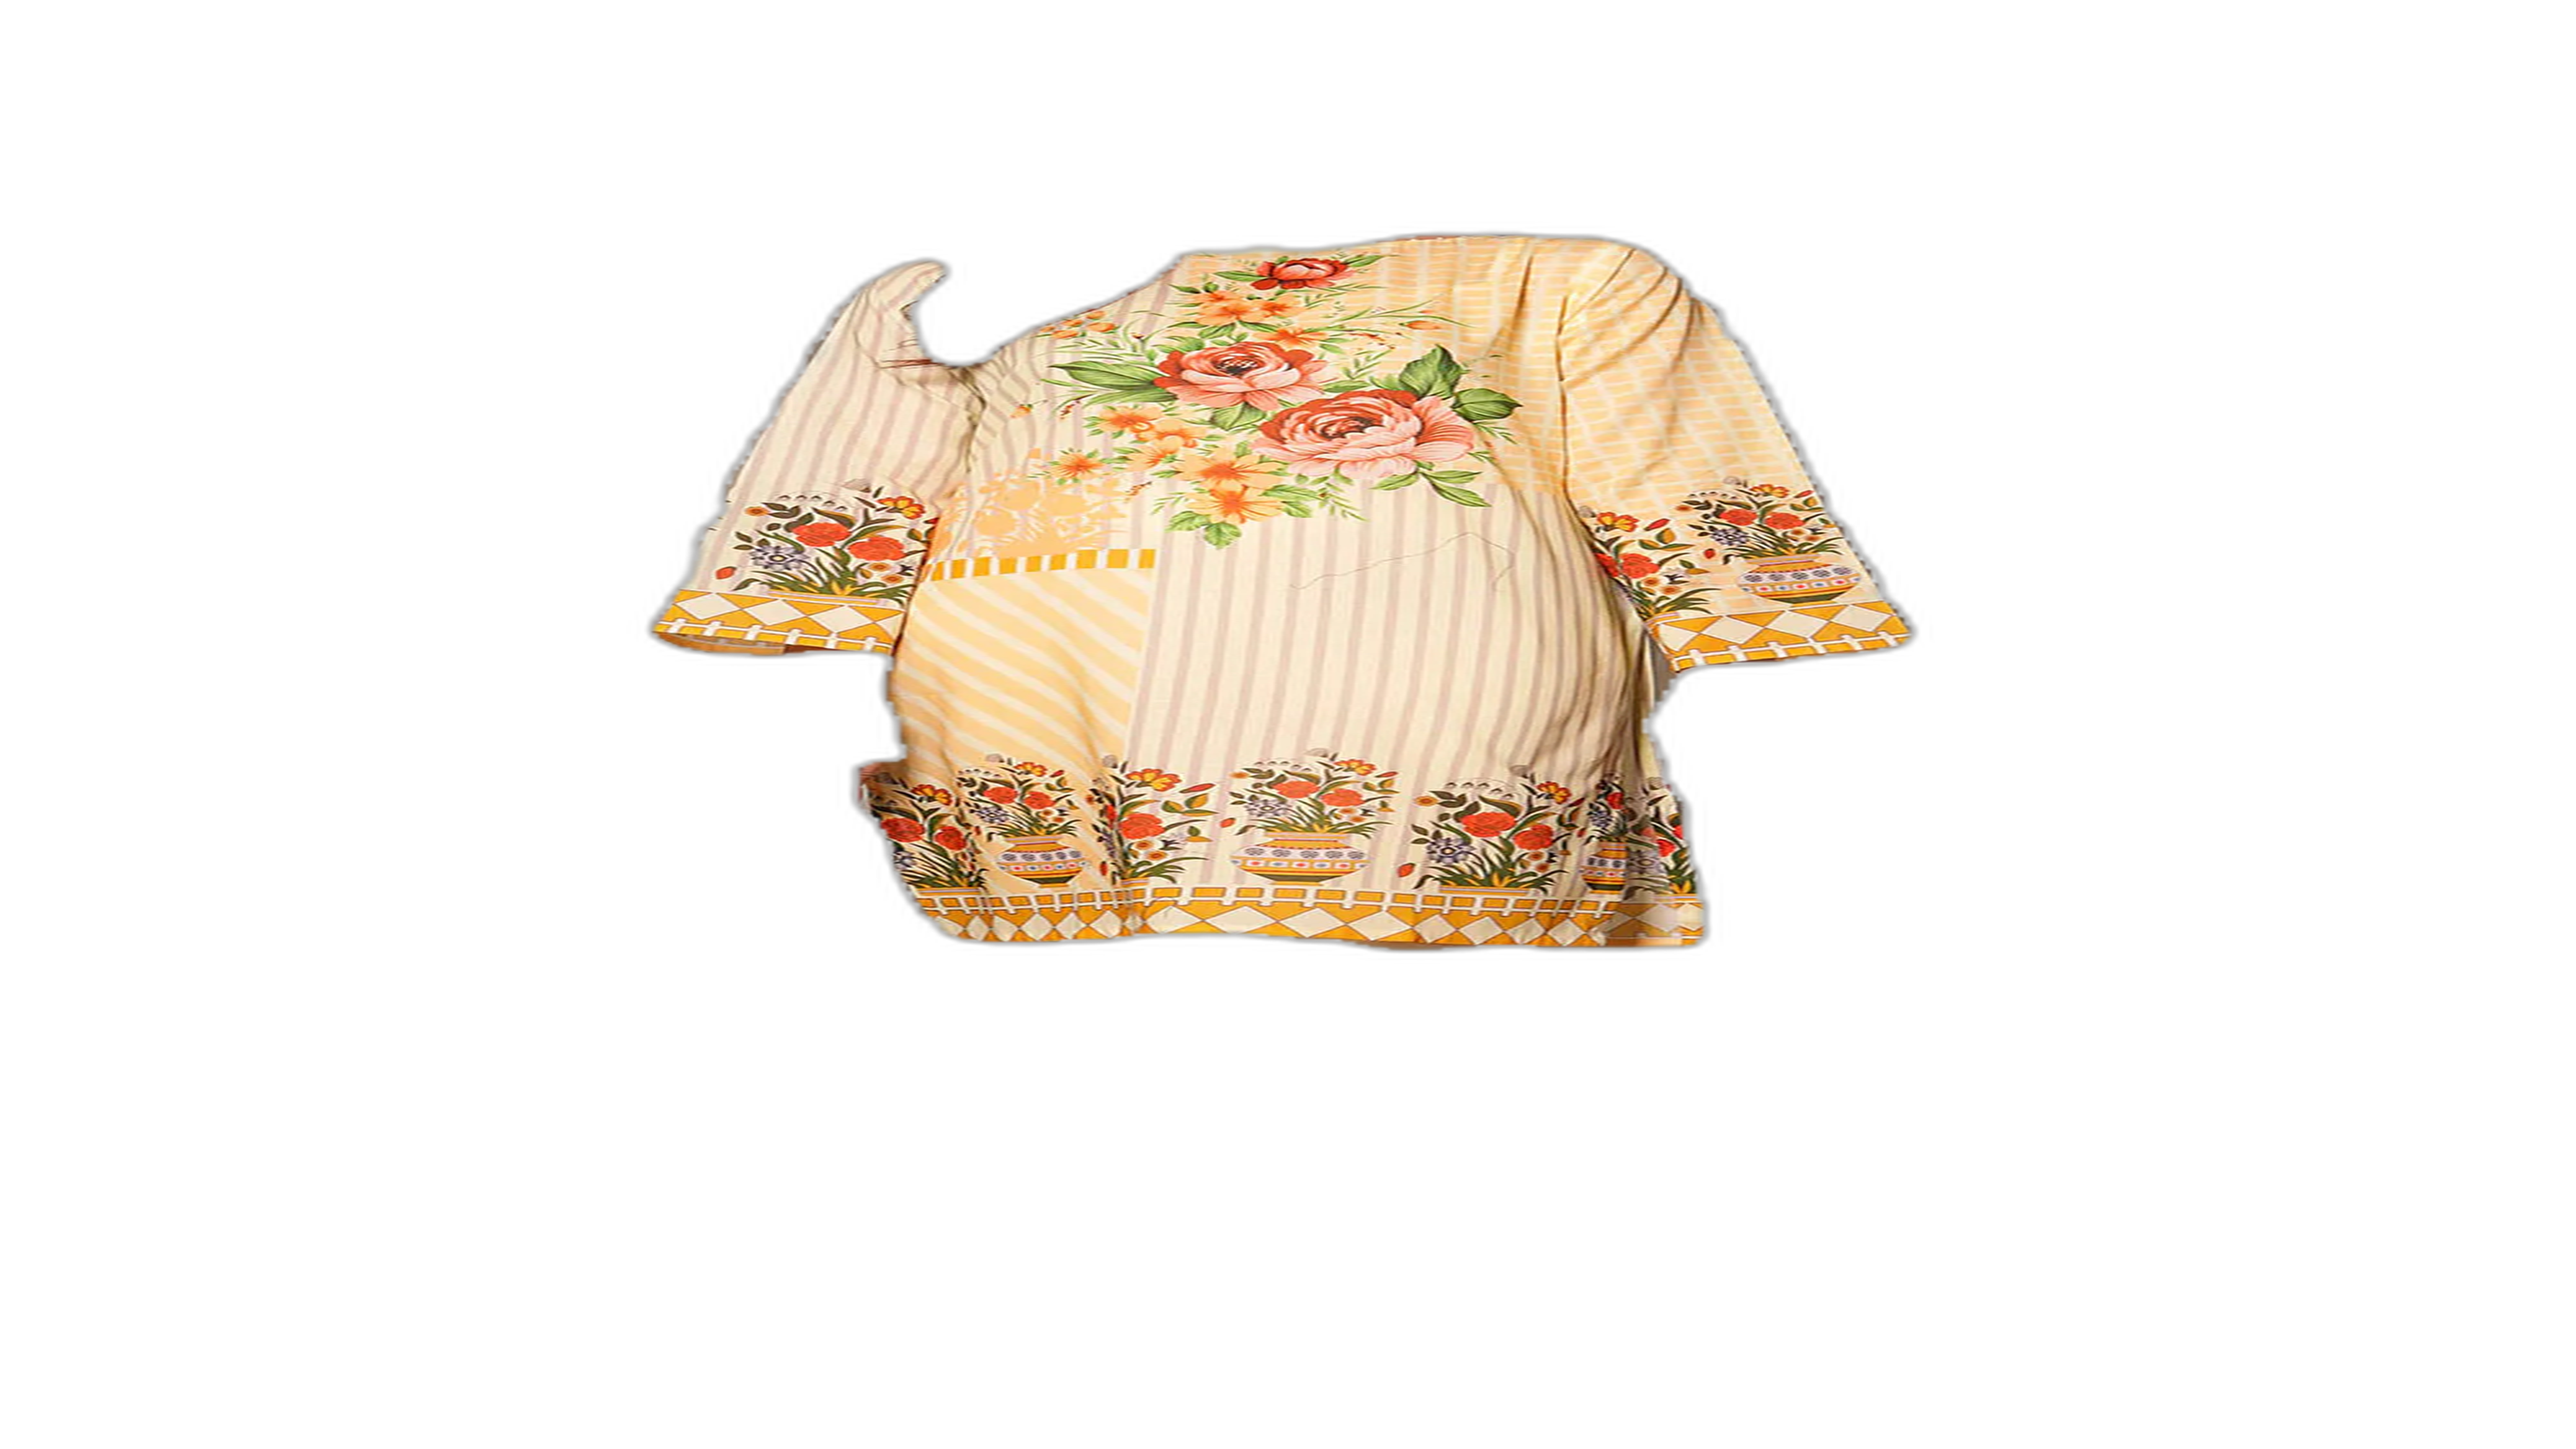
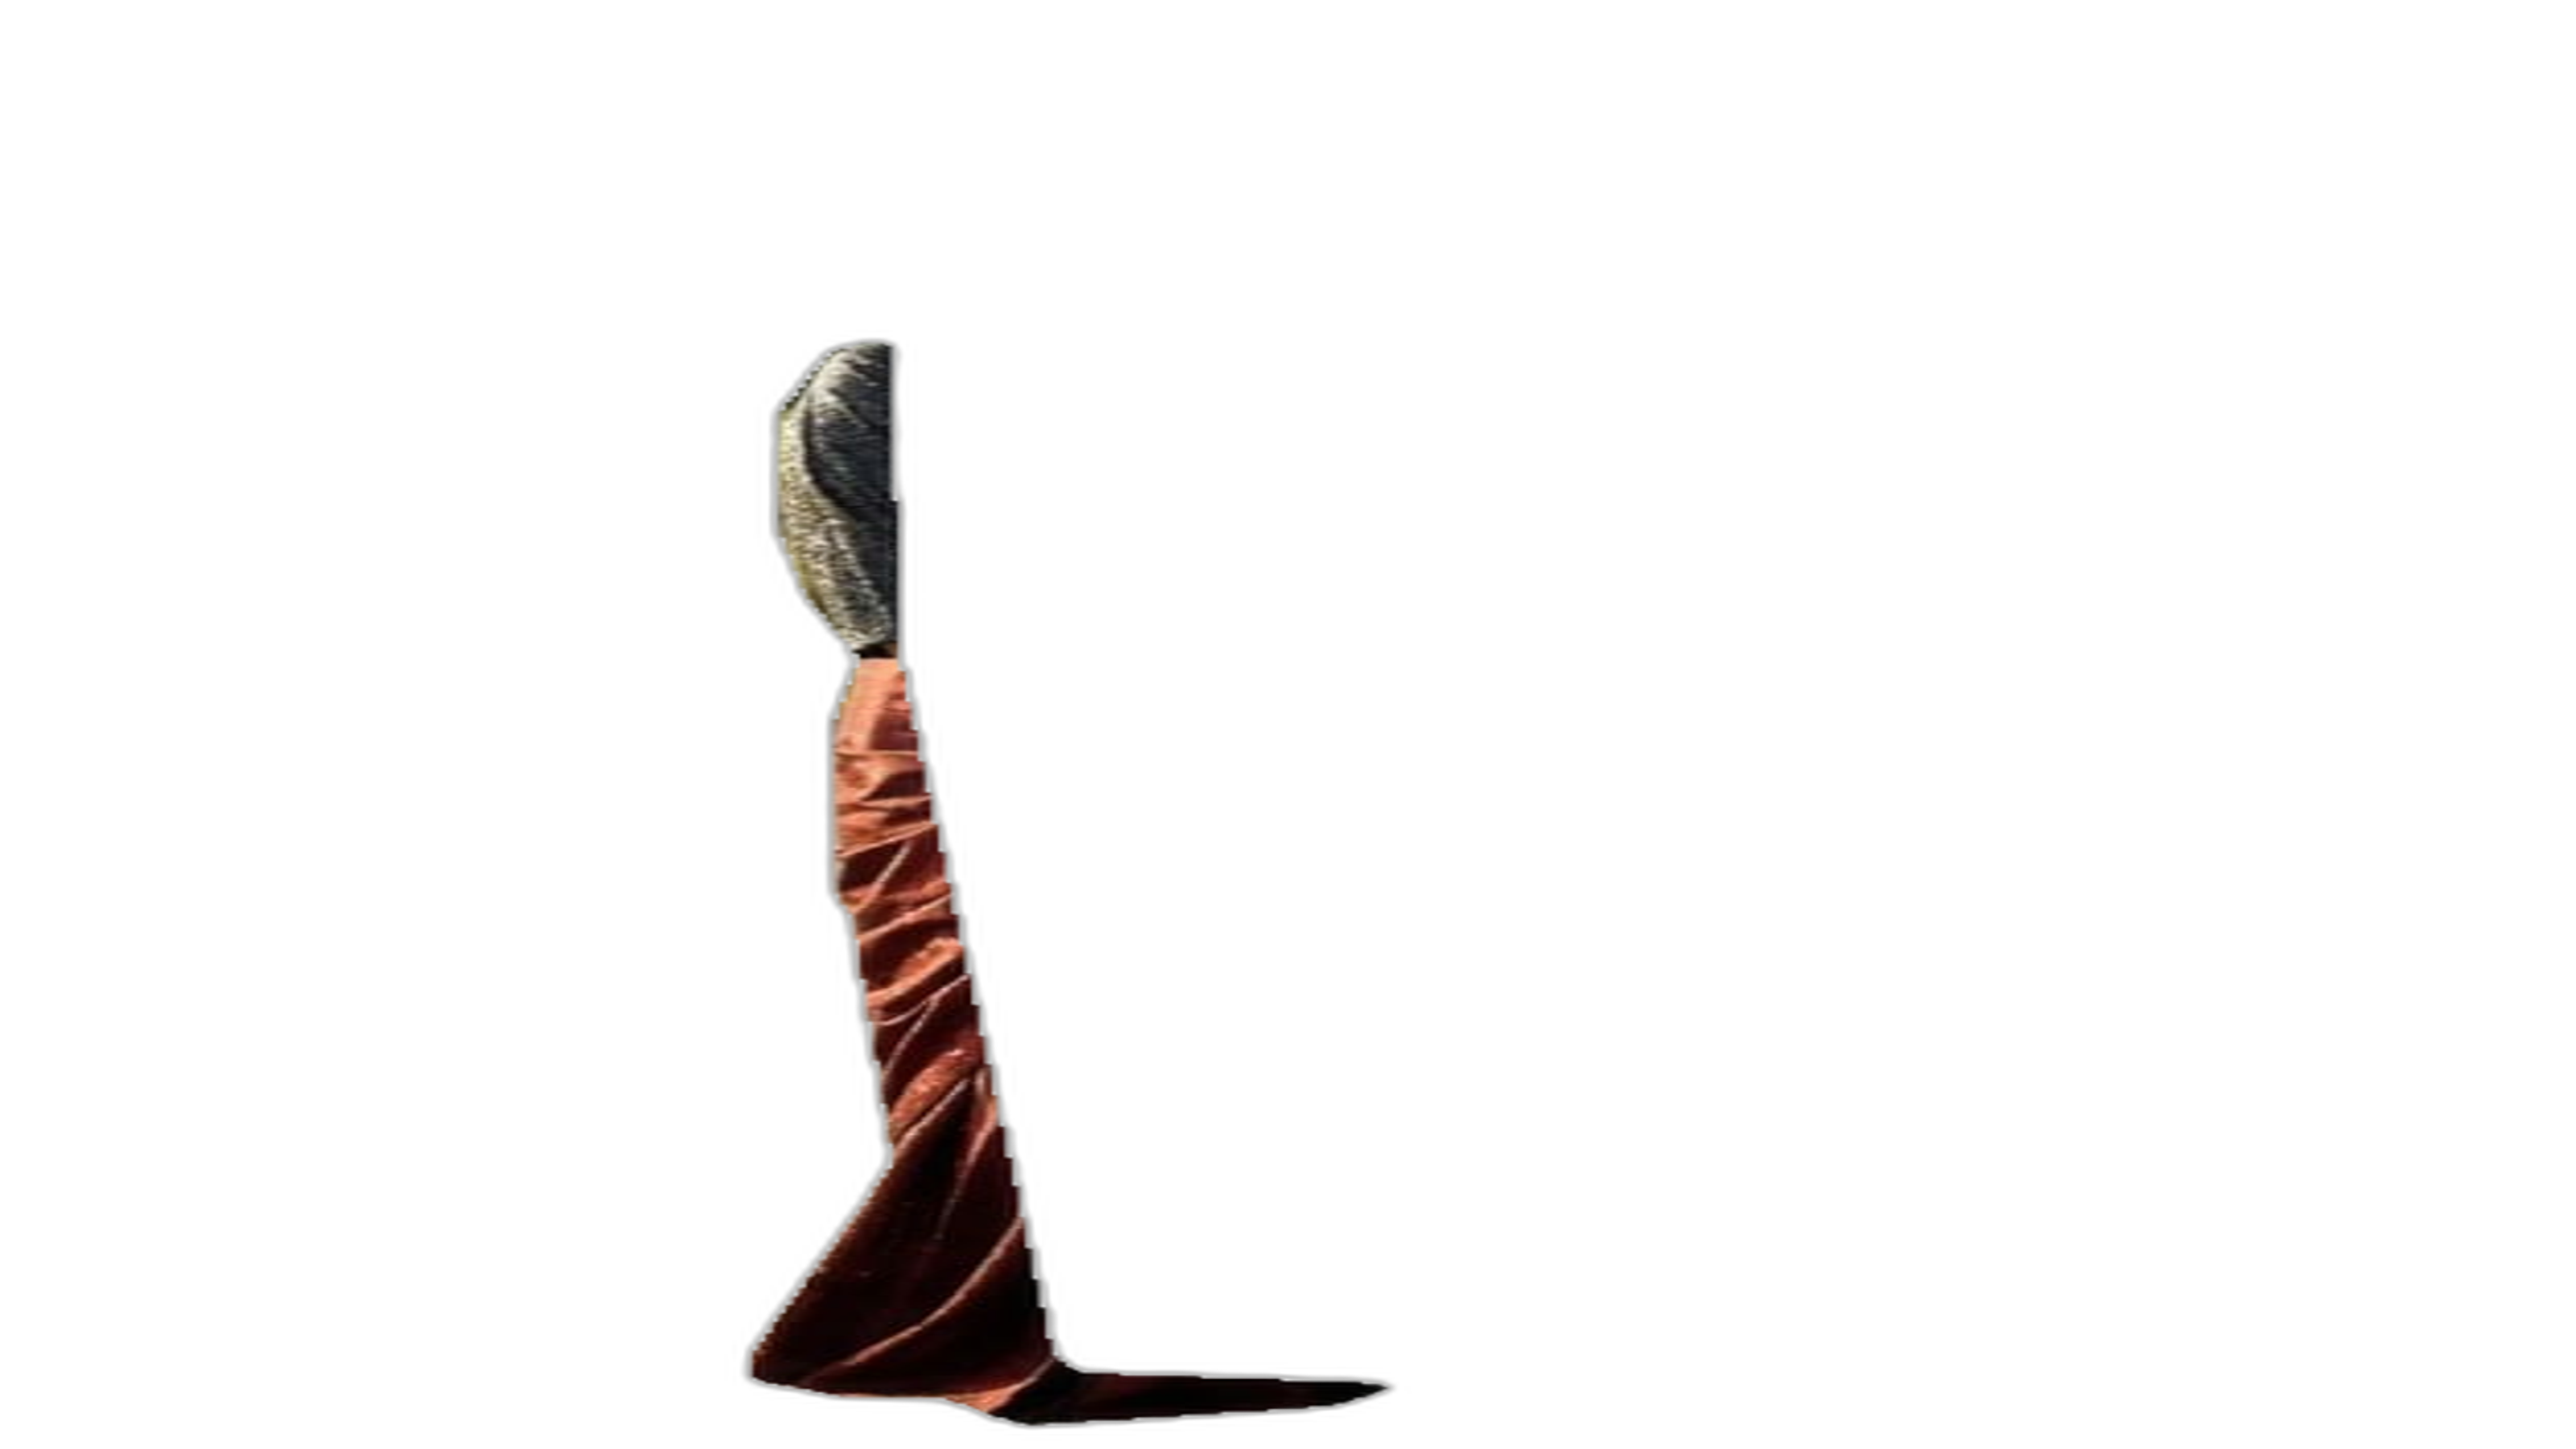
test masking

Changed region(s): [[0.25, 0.1562, 0.75, 1.0]]

diff --git a/masking_demo.py b/masking_demo.py
@@ -10,10 +10,6 @@ from pathlib import Path
 from skimage import measure, morphology
 from scipy import ndimage
 from rembg import remove
-import torch
-import torchvision.transforms as T
-from skimage import draw, measure
-
 
 def timing(f):
     @wraps(f)
@@ -30,17 +26,14 @@ class Masking:
     def __init__(self):
         self.parsing_model = Parsing(-1)
         self.openpose_model = OpenPose(-1)
-        self.mp_hands = mp.solutions.hands
         self.mp_pose = mp.solutions.pose
-        self.hands = self.mp_hands.Hands(static_image_mode=True, max_num_hands=2, min_detection_confidence=0.7)
-        self.pose = self.mp_pose.Pose(static_image_mode=True, model_complexity=2, min_detection_confidence=0.7)
+        self.pose = self.mp_pose.Pose(static_image_mode=True, model_complexity=2, min_detection_confidence=0.5)
         self.label_map = {
             "background": 0, "hat": 1, "hair": 2, "sunglasses": 3, "upper_clothes": 4,
             "skirt": 5, "pants": 6, "dress": 7, "belt": 8, "left_shoe": 9, "right_shoe": 10,
             "head": 11, "left_leg": 12, "right_leg": 13, "left_arm": 14, "right_arm": 15,
             "bag": 16, "scarf": 17, "neck": 18
         }
-        self.device = torch.device('cuda' if torch.cuda.is_available() else 'cpu')
 
     @timing
     def get_mask(self, img, category='upper_body'):
@@ -54,144 +47,82 @@ class Masking:
         pose_data = np.array(keypoints["pose_keypoints_2d"]).reshape((-1, 2))
 
         if category == 'upper_body':
-            mask = np.isin(parse_array, [self.label_map["upper_clothes"], self.label_map["dress"]])
+            mask = np.isin(parse_array, [self.label_map["upper_clothes"]])
         elif category == 'lower_body':
             mask = np.isin(parse_array, [self.label_map["pants"], self.label_map["skirt"]])
         elif category == 'dresses':
-            mask = np.isin(parse_array, [self.label_map["upper_clothes"], self.label_map["dress"], 
-                                         self.label_map["pants"], self.label_map["skirt"]])
+            mask = np.isin(parse_array, [self.label_map["dress"], self.label_map["upper_clothes"], self.label_map["pants"], self.label_map["skirt"]])
         else:
             raise ValueError("Invalid category. Choose 'upper_body', 'lower_body', or 'dresses'.")
 
-        # Remove all body parts except clothes
-        body_parts = [self.label_map["left_arm"], self.label_map["right_arm"],
-                      self.label_map["left_leg"], self.label_map["right_leg"],
-                      self.label_map["head"], self.label_map["neck"]]
-        body_mask = np.isin(parse_array, body_parts)
+        # Refine the mask using pose estimation
+        refined_mask = self.refine_mask_with_pose(img_np, mask)
         
-        hand_mask = self.create_hand_mask(img_np)
-        pose_mask = self.create_pose_mask(img_np)
-        
-        body_hand_pose_mask = np.logical_or(np.logical_or(body_mask, hand_mask), pose_mask)
-        mask = np.logical_and(mask, np.logical_not(body_hand_pose_mask))
+        # Remove small isolated regions and fill holes
+        refined_mask = self.post_process_mask(refined_mask)
 
-        mask = self.refine_mask(mask)
-        mask = self.smooth_edges(mask)
-        mask = self.remove_small_regions(mask)
-
-        mask_pil = Image.fromarray(mask.astype(np.uint8) * 255)
+        # Resize mask back to original image size
+        mask_pil = Image.fromarray(refined_mask.astype(np.uint8) * 255)
         mask_pil = mask_pil.resize(img.size, Image.Resampling.LANCZOS)
         
         return np.array(mask_pil)
 
-    def create_hand_mask(self, image):
-        image_rgb = cv2.cvtColor(image, cv2.COLOR_BGR2RGB)
-        results = self.hands.process(image_rgb)
-        
-        hand_mask = np.zeros(image.shape[:2], dtype=np.uint8)
-        
-        if results.multi_hand_landmarks:
-            for hand_landmarks in results.multi_hand_landmarks:
-                hand_points = []
-                for landmark in hand_landmarks.landmark:
-                    x, y = int(landmark.x * image.shape[1]), int(landmark.y * image.shape[0])
-                    hand_points.append([x, y])
-                hand_points = np.array(hand_points, dtype=np.int32)
-                cv2.fillPoly(hand_mask, [hand_points], 255)
-                
-                # Dilate the hand mask to ensure complete coverage
-                kernel = np.ones((5,5), np.uint8)
-                hand_mask = cv2.dilate(hand_mask, kernel, iterations=2)
-        
-        return hand_mask > 0
-
-    def create_pose_mask(self, image):
+    def refine_mask_with_pose(self, image, initial_mask):
         image_rgb = cv2.cvtColor(image, cv2.COLOR_BGR2RGB)
         results = self.pose.process(image_rgb)
         
-        pose_mask = np.zeros(image.shape[:2], dtype=np.uint8)
+        refined_mask = initial_mask.copy()
         
         if results.pose_landmarks:
             landmarks = results.pose_landmarks.landmark
-            points = np.array([(int(l.x * image.shape[1]), int(l.y * image.shape[0])) for l in landmarks])
+            
+            # Define key points for different body parts
+            shoulder_l = np.array([landmarks[11].x, landmarks[11].y])
+            shoulder_r = np.array([landmarks[12].x, landmarks[12].y])
+            hip_l = np.array([landmarks[23].x, landmarks[23].y])
+            hip_r = np.array([landmarks[24].x, landmarks[24].y])
             
             # Create a more precise body outline
-            hull = cv2.convexHull(points)
-            cv2.fillConvexPoly(pose_mask, hull, 255)
+            height, width = initial_mask.shape[:2]
+            body_mask = np.zeros((height, width), dtype=np.uint8)
             
-            # Dilate the pose mask to ensure complete coverage
-            kernel = np.ones((5,5), np.uint8)
-            pose_mask = cv2.dilate(pose_mask, kernel, iterations=2)
+            # Upper body
+            cv2.fillConvexPoly(body_mask, np.array([
+                (shoulder_l * [width, height]).astype(int),
+                (shoulder_r * [width, height]).astype(int),
+                (hip_r * [width, height]).astype(int),
+                (hip_l * [width, height]).astype(int)
+            ]), 1)
+            
+            # Refine the initial mask
+            refined_mask = np.logical_and(refined_mask, body_mask)
         
-        return pose_mask > 0
+        return refined_mask
 
-    def refine_mask(self, mask):
-        mask_uint8 = mask.astype(np.uint8) * 255
+    def post_process_mask(self, mask, min_size=100, kernel_size=5):
+        # Remove small objects
+        mask_cleaned = morphology.remove_small_objects(mask.astype(bool), min_size=min_size)
         
-        # Use more advanced morphological operations
-        kernel = cv2.getStructuringElement(cv2.MORPH_ELLIPSE, (5,5))
-        mask_uint8 = cv2.morphologyEx(mask_uint8, cv2.MORPH_CLOSE, kernel)
-        mask_uint8 = cv2.morphologyEx(mask_uint8, cv2.MORPH_OPEN, kernel)
+        # Fill holes
+        mask_filled = ndimage.binary_fill_holes(mask_cleaned)
         
-        # Use contour approximation for smoother edges
-        contours, _ = cv2.findContours(mask_uint8, cv2.RETR_EXTERNAL, cv2.CHAIN_APPROX_TC89_KCOS)
-        if contours:
-            largest_contour = max(contours, key=cv2.contourArea)
-            epsilon = 0.002 * cv2.arcLength(largest_contour, True)
-            approx = cv2.approxPolyDP(largest_contour, epsilon, True)
-            mask_refined = np.zeros_like(mask_uint8)
-            cv2.drawContours(mask_refined, [approx], 0, 255, -1)
-        else:
-            mask_refined = mask_uint8
-        
-        return mask_refined > 0
-
-    def smooth_edges(self, mask, sigma=1.5):
-        mask_float = mask.astype(float)
-        mask_blurred = ndimage.gaussian_filter(mask_float, sigma=sigma)
-        mask_smooth = (mask_blurred > 0.5).astype(np.uint8)
-        
-        # Additional edge refinement using active contours
-        contours = measure.find_contours(mask_smooth, 0.5)
-        for contour in contours:
-            rr, cc = draw.polygon(contour[:, 0], contour[:, 1], mask_smooth.shape)
-            mask_smooth[rr, cc] = 1
+        # Smooth edges
+        kernel = np.ones((kernel_size, kernel_size), np.uint8)
+        mask_smooth = cv2.morphologyEx(mask_filled.astype(np.uint8), cv2.MORPH_CLOSE, kernel)
         
         return mask_smooth
-
-    def remove_small_regions(self, mask, min_size=100):
-        labeled_mask, num_labels = ndimage.label(mask)
-        sizes = ndimage.sum(mask, labeled_mask, range(1, num_labels + 1))
-        mask_sizes = sizes < min_size
-        remove_pixel = mask_sizes[labeled_mask - 1]
-        mask[remove_pixel] = 0
-        return mask
-
-    @staticmethod
-    def hole_fill(img):
-        img = np.pad(img[1:-1, 1:-1], pad_width = 1, mode = 'constant', constant_values=0)
-        img_copy = img.copy()
-        mask = np.zeros((img.shape[0] + 2, img.shape[1] + 2), dtype=np.uint8)
-
-        cv2.floodFill(img, mask, (0, 0), 255)
-        img_inverse = cv2.bitwise_not(img)
-        dst = cv2.bitwise_or(img_copy, img_inverse)
-        return dst
 
 def process_images(input_folder, output_folder, category, output_format='png'):
     masker = Masking()
     
-    # Create output folder if it doesn't exist
     Path(output_folder).mkdir(parents=True, exist_ok=True)
     
-    # Get all image files from the input folder
     image_files = list(Path(input_folder).glob('*'))
     image_files = [f for f in image_files if f.suffix.lower() in ('.png', '.jpg', '.jpeg', '.bmp', '.tiff', '.webp')]
     
     for i, image_file in enumerate(image_files, 1):
-        output_mask = Path(output_folder) / f"output_sharp_mask_{i}.{output_format}"
-        output_masked = Path(output_folder) / f"output_masked_image_white_bg_{i}.{output_format}"
-        output_upscaled = Path(output_folder) / f"output_upscaled_8k_{i}.{output_format}"
+        output_mask = Path(output_folder) / f"output_mask_{i}.{output_format}"
+        output_masked = Path(output_folder) / f"output_masked_{i}.{output_format}"
         
         print(f"Processing image {i}/{len(image_files)}: {image_file.name}")
         
@@ -201,11 +132,9 @@ def process_images(input_folder, output_folder, category, output_format='png'):
         
         Image.fromarray(mask).save(str(output_mask))
         
-        # Create a white background image
-        white_bg = Image.new('RGB', input_img.size, (255, 255, 255))
-        
-        # Create a new image with white background and paste the masked input image
-        masked_output = Image.composite(input_img, white_bg, Image.fromarray(mask))
+        # Create a new image with transparent background where the mask is 0
+        masked_output = input_img.copy()
+        masked_output.putalpha(Image.fromarray(mask))
         
         # Remove background using rembg for better results
         masked_output_removed_bg = remove(np.array(masked_output))
@@ -216,24 +145,14 @@ def process_images(input_folder, output_folder, category, output_format='png'):
         else:
             masked_output_removed_bg.save(str(output_masked))
         
-        # Upscale to 8K resolution using a simple bicubic interpolation
-        target_size = (7680, 4320)  # 8K resolution
-        upscaled_output = masked_output_removed_bg.resize(target_size, Image.BICUBIC)
-        
-        if output_format.lower() == 'webp':
-            upscaled_output.save(str(output_upscaled), format='WebP', lossless=True)
-        else:
-            upscaled_output.save(str(output_upscaled))
-        
         print(f"Mask saved to {output_mask}")
-        print(f"Masked output with white background saved to {output_masked}")
-        print(f"Upscaled 8K output saved to {output_upscaled}")
+        print(f"Masked output saved to {output_masked}")
         print()
 
 if __name__ == "__main__":
     input_folder = Path("/Users/ikramali/projects/arbiosft_products/arbi-tryon/Input_Images")
     output_folder = Path("/Users/ikramali/projects/arbiosft_products/arbi-tryon/output")
     category = "dresses"  # Change this to "upper_body", "lower_body", or "dresses" as needed
-    output_format = "webp"  # Change this to "png" if you prefer PNG output
+    output_format = "png"
     
     process_images(str(input_folder), str(output_folder), category, output_format)
